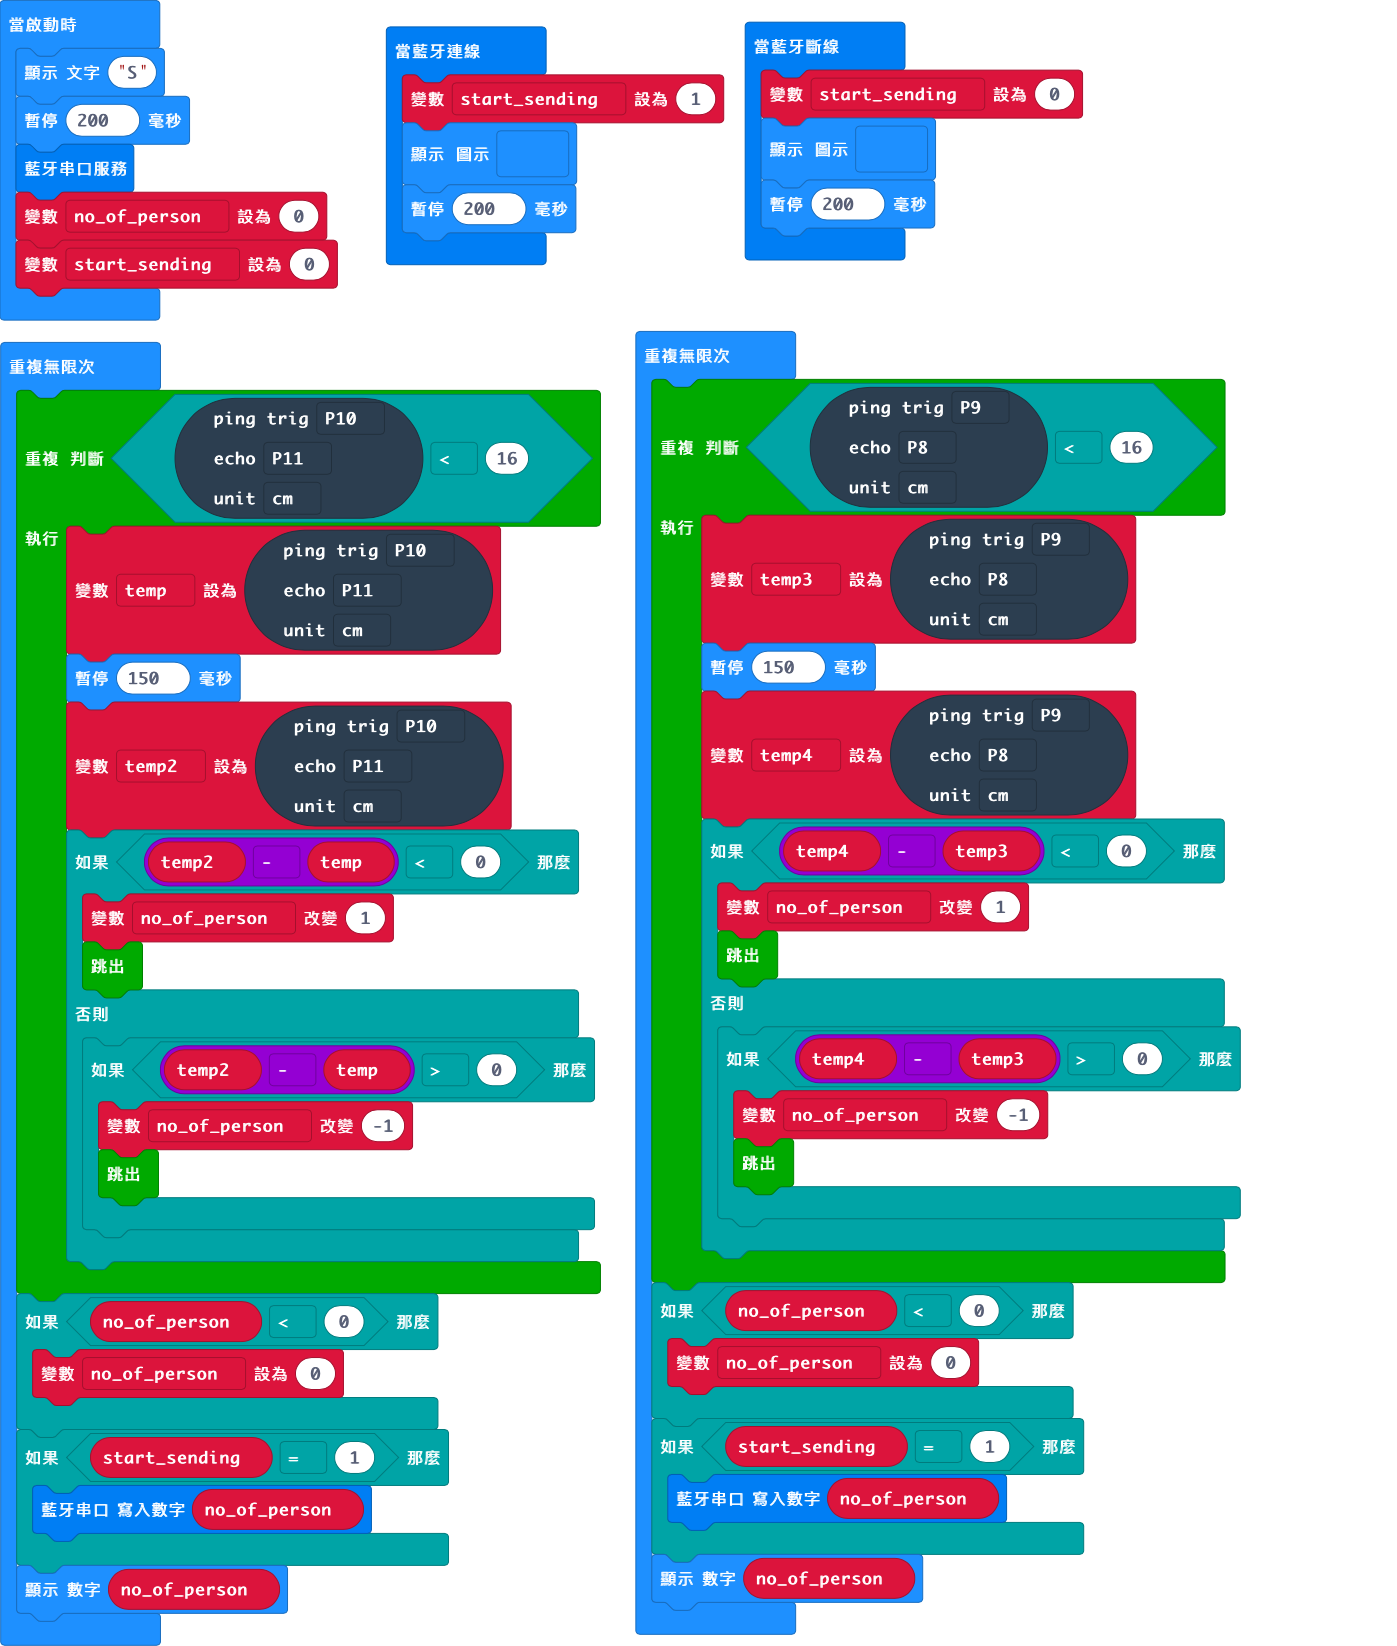
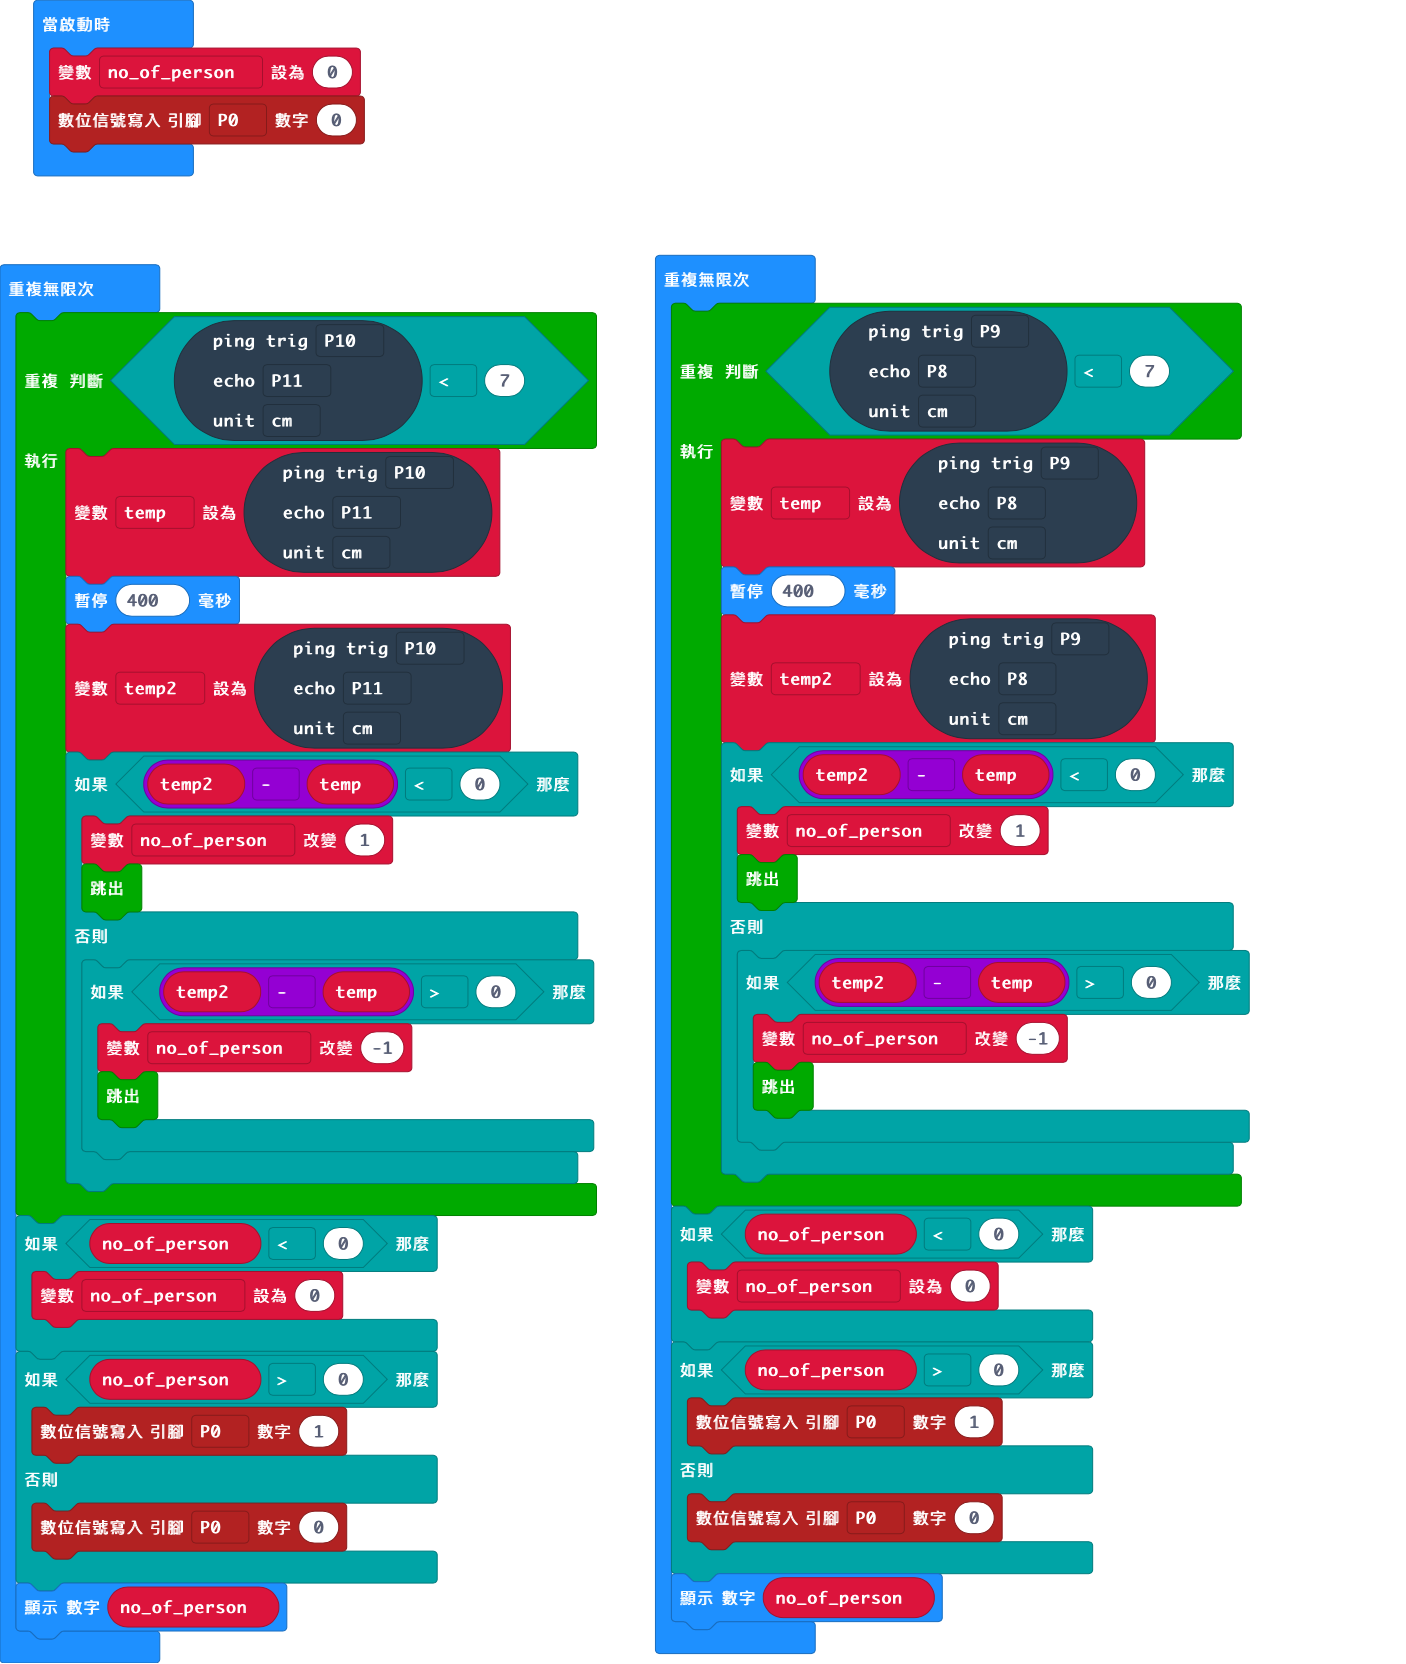
Update main.blocks, main.ts

diff --git a/main.ts b/main.ts
@@ -1,35 +1,19 @@
-bluetooth.onBluetoothConnected(function () {
-    start_sending = 1
-    basic.showIcon(IconNames.Yes)
-    basic.pause(200)
-})
-bluetooth.onBluetoothDisconnected(function () {
-    start_sending = 0
-    basic.showIcon(IconNames.No)
-    basic.pause(200)
-})
-let temp4 = 0
-let temp3 = 0
 let temp2 = 0
 let temp = 0
-let start_sending = 0
-basic.showString("S")
-basic.pause(200)
-bluetooth.startUartService()
 let no_of_person = 0
-start_sending = 0
+pins.digitalWritePin(DigitalPin.P0, 0)
 basic.forever(function () {
     while (sonar.ping(
     DigitalPin.P10,
     DigitalPin.P11,
     PingUnit.Centimeters
-    ) < 16) {
+    ) < 7) {
         temp = sonar.ping(
         DigitalPin.P10,
         DigitalPin.P11,
         PingUnit.Centimeters
         )
-        basic.pause(150)
+        basic.pause(400)
         temp2 = sonar.ping(
         DigitalPin.P10,
         DigitalPin.P11,
@@ -48,8 +32,10 @@ basic.forever(function () {
     if (no_of_person < 0) {
         no_of_person = 0
     }
-    if (start_sending == 1) {
-        bluetooth.uartWriteNumber(no_of_person)
+    if (no_of_person > 0) {
+        pins.digitalWritePin(DigitalPin.P0, 1)
+    } else {
+        pins.digitalWritePin(DigitalPin.P0, 0)
     }
     basic.showNumber(no_of_person)
 })
@@ -58,23 +44,23 @@ basic.forever(function () {
     DigitalPin.P9,
     DigitalPin.P8,
     PingUnit.Centimeters
-    ) < 16) {
-        temp3 = sonar.ping(
+    ) < 7) {
+        temp = sonar.ping(
         DigitalPin.P9,
         DigitalPin.P8,
         PingUnit.Centimeters
         )
-        basic.pause(150)
-        temp4 = sonar.ping(
+        basic.pause(400)
+        temp2 = sonar.ping(
         DigitalPin.P9,
         DigitalPin.P8,
         PingUnit.Centimeters
         )
-        if (temp4 - temp3 < 0) {
+        if (temp2 - temp < 0) {
             no_of_person += 1
             break;
         } else {
-            if (temp4 - temp3 > 0) {
+            if (temp2 - temp > 0) {
                 no_of_person += -1
                 break;
             }
@@ -83,8 +69,10 @@ basic.forever(function () {
     if (no_of_person < 0) {
         no_of_person = 0
     }
-    if (start_sending == 1) {
-        bluetooth.uartWriteNumber(no_of_person)
+    if (no_of_person > 0) {
+        pins.digitalWritePin(DigitalPin.P0, 1)
+    } else {
+        pins.digitalWritePin(DigitalPin.P0, 0)
     }
     basic.showNumber(no_of_person)
 })
